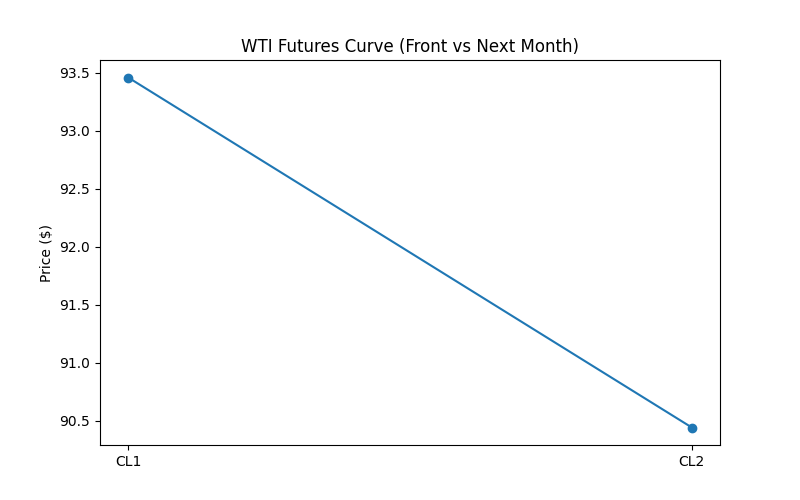
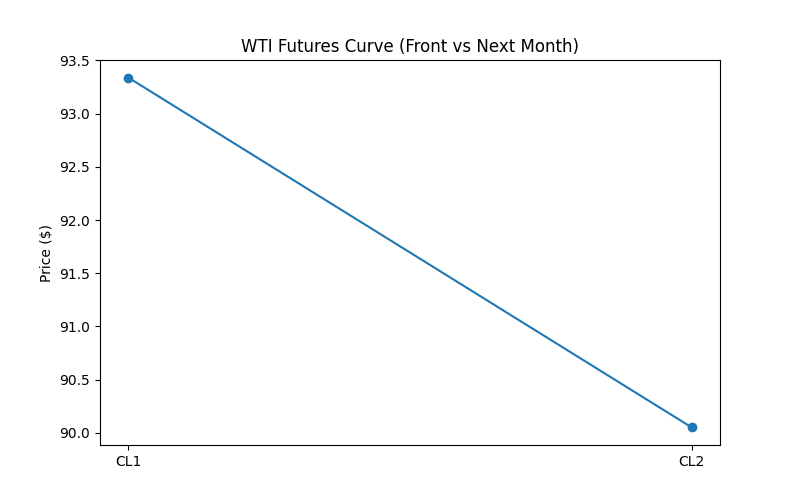
Improved the graphs and added performance metrics to track pnl and call_tracker file

diff --git a/charts/generate_charts.py b/charts/generate_charts.py
@@ -3,9 +3,7 @@ import os
 from datetime import datetime
 
 def plot_inventory_vs_seasonal(df):
-    """
-    Plots current year inventory vs 5Y min-max band
-    """
+    plt.style.use('fivethirtyeight') # Gives it a clean, professional look
     date_str = datetime.today().strftime("%Y-%m-%d")
     folder = f"charts/{date_str}"
     os.makedirs(folder, exist_ok=True)
@@ -14,70 +12,71 @@ def plot_inventory_vs_seasonal(df):
     df["year"] = df["period"].dt.year
     df["week"] = df["period"].dt.isocalendar().week
 
-
     current_year = df["year"].max()
+    hist = df[(df["year"] < current_year) & (df["year"] >= current_year - 5)]
 
-    #last 5 years excluding current
-    hist = df[df["year"] < current_year]
-    hist = df[df["year"] >= current_year - 5]
-
-    band = hist.groupby("week")["value_million_bbl"].agg(["min","max"]).reset_index()
-    current = df[df["year"] == current_year]
-    band = band[band["week"] <= current["week"].max()]
-
-    # merge current with week
-    current = current.copy()
+    # Calculate band
+    band = hist.groupby("week")["value_million_bbl"].agg(["min", "max", "mean"]).reset_index()
+    current = df[df["year"] == current_year].copy()
     current["week"] = current["period"].dt.isocalendar().week
 
-    plt.figure(figsize=(12,6))
+    fig, ax = plt.subplots(figsize=(12, 7))
 
-    # plot band
-    plt.fill_between(
-        band["week"],
-        band["min"],
-        band["max"],
-        alpha=0.2,
-        label="5Y Range"
-    )
+    # 1. Plot the 5Y Range (The "Cloud")
+    ax.fill_between(band["week"], band["min"], band["max"], 
+                    color = 'gray', alpha=0.15, label="5-Year Range (Min-Max)")
+    
+    # 2. Plot the 5Y Average (The "Anchor")
+    ax.plot(band["week"], band["mean"], color = 'gray', linestyle='--', 
+            linewidth=1, alpha=0.6, label="5-Year Average")
 
-    # plot current year
-    plt.plot(
-        current["week"],
-        current["value_million_bbl"],
-        label=f"{current_year} Inventory",
-        linewidth=2
-    )
+    # 3. Plot Current Year (The "Signal")
+    ax.plot(current["week"], current["value_million_bbl"], 
+            color="red", linewidth=3, label=f"{current_year} Inventory")
 
-    plt.title("US Crude Inventory vs 5-Year Range")
-    plt.xlabel("Week of Year")
-    plt.ylabel("Million Barrels")
-    plt.legend()
+    # Formatting
+    ax.set_title(f"US Crude Inventory: {current_year} vs. 5-Year Seasonality", fontsize = 16, pad = 20)
+    ax.set_xlabel("Week of Year", fontsize=12)
+    ax.set_ylabel("Million Barrels (mbbl)", fontsize=12)
+    ax.legend(facecolor = 'white', frameon = True, loc = 'upper right')
+    ax.grid(True, alpha=0.3)
 
+    plt.tight_layout()
     path = f"{folder}/inventory_vs_5yr_band.png"
-    plt.savefig(path)
+    plt.savefig(path, dpi=300) 
     plt.close()
-
     return path
 
 # FUTURES CURVE SNAPSHOT
 def plot_futures_curve_snapshot(cl1_price, cl2_price):
+    plt.style.use('ggplot')
     date_str = datetime.today().strftime("%Y-%m-%d")
     folder = f"charts/{date_str}"
     os.makedirs(folder, exist_ok=True)
 
-    months = ["CL1", "CL2"]
+    months = ["Front Month (CL1)", "Next Month (CL2)"]
     prices = [cl1_price, cl2_price]
 
-    plt.figure(figsize=(8,5))
-    plt.plot(months, prices, marker='o')
+    fig, ax = plt.subplots(figsize=(8, 6))
 
-    plt.title("WTI Futures Curve (Front vs Next Month)")
-    plt.ylabel("Price ($)")
+    # Plot lined as dots
+    ax.plot(months, prices, marker = 'o', markersize=10, color = "blue", linewidth=3)
+    # Add price labels above dots
+    for i, price in enumerate(prices):
+        ax.annotate(f"${price:.2f}", (months[i], prices[i]), 
+                    textcoords="offset points", xytext=(0,10), ha='center', fontweight='bold')
+    
+    # Shade area under the curve
+    ax.fill_between(months, prices, min(prices)-1, color = "blue", alpha = 0.1)
+    state = "Backwardation" if cl1_price > cl2_price else "Contango"
+    ax.set_title(f"WTI Futures Curve: {state}", fontsize = 14, color = "black")
+    ax.set_ylabel("Price per Barrel ($)")
+    ax.set_ylim(min(prices)-2, max(prices)+2)
 
+    plt.tight_layout()
     path = f"{folder}/futures_curve.png"
-    plt.savefig(path)
+    plt.savefig(path, dpi=300)
     plt.close()
-
     return path
 
 # SPREAD TIME SERIES
@@ -86,17 +85,19 @@ def plot_spread_timeseries(curve_df):
     folder = f"charts/{date_str}"
     os.makedirs(folder, exist_ok=True)
 
-    plt.figure(figsize=(10,5))
+    fig, ax = plt.subplots(figsize=(12, 6))
 
-    plt.plot(curve_df.index, curve_df["spread"], label="CL1–CL2 Spread")
-    plt.axhline(0, linestyle="--")
+    # Plot the spread
+    ax.plot(curve_df.index, curve_df["spread"], color='green', linewidth=2, label="CL1–CL2 Spread")
+    # Add a zero line
+    ax.axhline(0, color='black', linestyle='-', linewidth=1, alpha=0.5)
 
-    plt.title("WTI CL1–CL2 Spread (6-Month Trend)")
-    plt.ylabel("Spread ($)")
-    plt.legend()
+    ax.set_title("WTI Prompt Spread (CL1–CL2)", fontsize=14, loc='left')
+    ax.set_ylabel("Spread ($)")
+    ax.grid(True, linestyle='--', alpha=0.7)
 
+    plt.tight_layout()
     path = f"{folder}/spread_timeseries.png"
-    plt.savefig(path)
+    plt.savefig(path, dpi=300)
     plt.close()
-
     return path

diff --git a/pipeline/call_tracker.py b/pipeline/call_tracker.py
@@ -17,7 +17,7 @@ def log_new_call(signal, confidence, trade, entry_price):
         "entry_price": entry_price,
         "next_week_price": None,
         "return_pct": None,
-        "correct": None
+        "correct": None 
     }
 
     if os.path.exists(TRACKER_FILE):
@@ -36,7 +36,6 @@ def update_last_call():
         return
 
     df = pd.read_csv(TRACKER_FILE)
-
     if df.empty:
         return
 
@@ -44,31 +43,63 @@ def update_last_call():
 
     # skip if already updated
     if pd.notna(df.loc[last_idx, "next_week_price"]):
+        print("Last call already updated.")
         return
 
-    # get current WTI price
-    wti = yf.download("CL=F", period="1d")
-    current_price = float(wti["Close"].iloc[-1])
+    call_date = pd.to_datetime(df.loc[last_idx, "date"])
+    today = pd.Timestamp.today()
 
-    entry_price = df.loc[last_idx, "entry_price"]
+    if (today - call_date).days < 5:
+        print("Too early to evaluate call.")
+        return
 
-    # calculate return
-    ret = (current_price - entry_price) / entry_price * 100
+    # Fetch price
+    try:
+        wti = yf.Ticker("CL=F")
+        hist = wti.history(period="1d")
 
-    signal = df.loc[last_idx, "signal"]
+        if hist.empty:
+            print("No price data available.")
+            return
 
-    # determine correctness
-    if signal in ["BULLISH", "STRONG BULLISH"]:
-        correct = "yes" if ret > 0 else "no"
-    elif signal in ["BEARISH", "STRONG BEARISH"]:
-        correct = "yes" if ret < 0 else "no"
+        current_price = float(hist["Close"].iloc[-1])
+
+    except Exception as e:
+        print(f"Error fetching price: {e}")
+        return
+
+    entry_price = float(df.loc[last_idx, "entry_price"])
+
+
+    # Compute return
+    ret_pct = ((current_price - entry_price) / entry_price) * 100
+    signal = str(df.loc[last_idx, "signal"]).upper()
+
+    # Correctness logic
+    if "BULLISH" in signal:
+        correct = 1 if ret_pct > 0 else 0
+    elif "BEARISH" in signal:
+        correct = 1 if ret_pct < 0 else 0
     else:
-        correct = "neutral"
+        correct = None
 
-    df.loc[last_idx, "next_week_price"] = current_price
-    df.loc[last_idx, "return_pct"] = round(ret, 2)
-    df.loc[last_idx, "correct"] = correct
+    # Save results
+    df.at[last_idx, "next_week_price"] = round(current_price, 2)
+    df.at[last_idx, "return_pct"] = round(ret_pct, 2)
+    df.at[last_idx, "correct"] = correct
+
+    # enforce numeric
+    df["entry_price"] = pd.to_numeric(df["entry_price"], errors="coerce")
+    df["next_week_price"] = pd.to_numeric(df["next_week_price"], errors="coerce")
+    df["return_pct"] = pd.to_numeric(df["return_pct"], errors="coerce")
+    df["correct"] = pd.to_numeric(df["correct"], errors="coerce")
 
     df.to_csv(TRACKER_FILE, index=False)
 
-    print("Updated last call")
+    print(f"Updated last call → Return: {ret_pct:.2f}% | Correct: {correct}")
+
+def main():
+    update_last_call()
+
+if __name__ == "__main__":
+    main()

diff --git a/pipeline/performance.py b/pipeline/performance.py
@@ -1,0 +1,75 @@
+import pandas as pd
+import matplotlib.pyplot as plt
+
+TRACKER_FILE = "call_tracker.csv"
+
+def load_data():
+    df = pd.read_csv(TRACKER_FILE)
+    df["date"] = pd.to_datetime(df["date"])
+    df = df.dropna(subset=["return_pct"])
+    return df
+
+def compute_win_rate(df):
+    win = df["correct"].map({"yes": 1, "no": 0, "neutral": 0})
+    win_rate = win.mean() * 100
+    print(f"Win Rate: {win_rate:.2f}%")
+    return win_rate
+
+# CUMULATIVE PnL
+def compute_cumulative_returns(df):
+    df = df.copy()
+
+    # convert % → decimal
+    df["ret_decimal"] = df["return_pct"] / 100
+
+    # cumulative return
+    starting_capital = 10000
+    # Calculate the growth factor first
+    df["cumulative"] = (1 + df["ret_decimal"]).cumprod()
+    #Scaling capital
+    df["wealth_growth"] = starting_capital * df["cumulative"] 
+
+    return df
+
+# SHARPE RATIO
+def compute_sharpe(df):
+    returns = df["return_pct"] / 100
+    if len(returns) < 2:
+        print("Not enough data for Sharpe")
+        return None
+    # Annualized Sharpe Ratio for weekly data
+    sharpe_annualized = (returns.mean() / returns.std()) * (52 ** 0.5)
+    print(f"Sharpe Ratio: {sharpe_annualized:.2f}")
+    return sharpe_annualized
+
+
+# PLOT PnL CURVE
+def plot_pnl(df):
+    plt.style.use('ggplot')
+    plt.figure(figsize=(12, 6))
+
+    plt.plot(df["date"], df["wealth_growth"], marker='o')
+    plt.axhline(y=10000, color='black', linestyle='--', alpha=0.5)
+
+    plt.title("Portfolio Growth: $10,000 Starting Capital (WTI Strategy)")
+    plt.ylabel("Account Balance ($)")
+    plt.xlabel("Trade Date")
+    plt.grid(True, alpha=0.3)
+
+    plt.tight_layout()
+    plt.savefig("charts/pnl_curve.png")
+    plt.close()
+    print("Saved PnL chart → charts/pnl_curve.png")
+
+def main():
+    df = load_data()
+
+    wr = compute_win_rate(df)
+    df_results = compute_cumulative_returns(df)
+    sr = compute_sharpe(df_results)
+    
+    plot_pnl(df_results)
+    print(f"Final Account Value: ${df_results['wealth_growth'].iloc[-1]:.2f}")
+
+if __name__ == "__main__":
+    main()

diff --git a/pipeline/generate_brief.py b/pipeline/generate_brief.py
@@ -4,6 +4,7 @@ from pipeline.surprise_model import compute_inventory_surprise
 from pipeline.curve_analytics import fetch_curve_data
 from pipeline.generate_insights import generate_insights
 from pipeline.call_tracker import log_new_call
+from pipeline.call_tracker import update_last_call
 from charts.generate_charts import plot_inventory_vs_seasonal, plot_futures_curve_snapshot, plot_spread_timeseries
 
 def generate_brief():
@@ -49,6 +50,7 @@ def generate_brief():
     # GENERATE INSIGHTS
     insights = generate_insights(latest, curve_structure, last_spread)
 
+    update_last_call()
     entry_price = cl1_price  # front-month price
     log_new_call(
         signal=insights["final_signal"],
